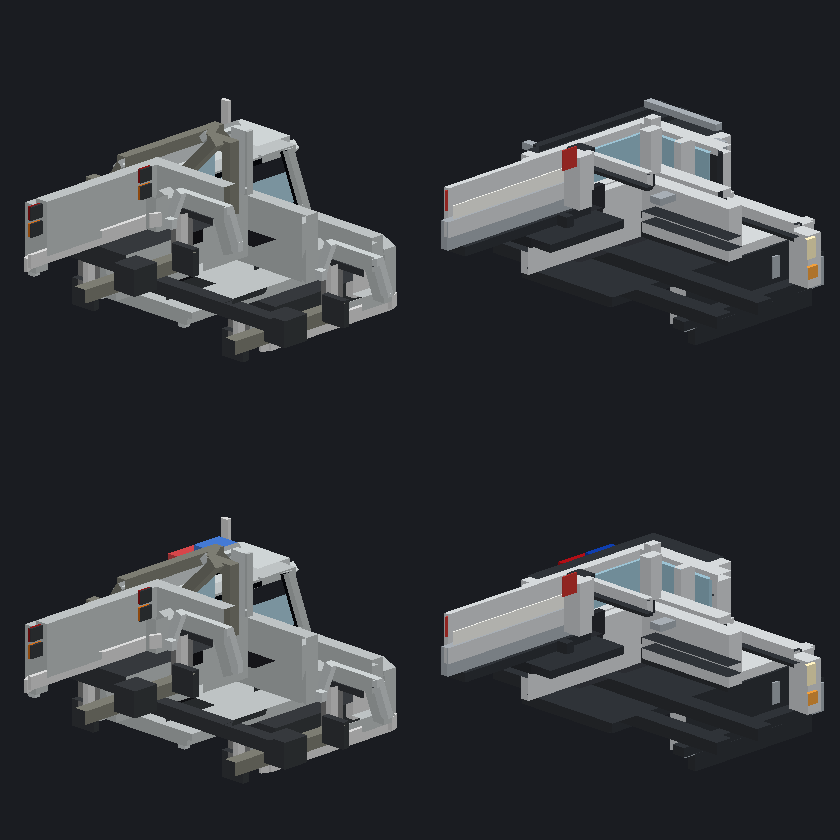
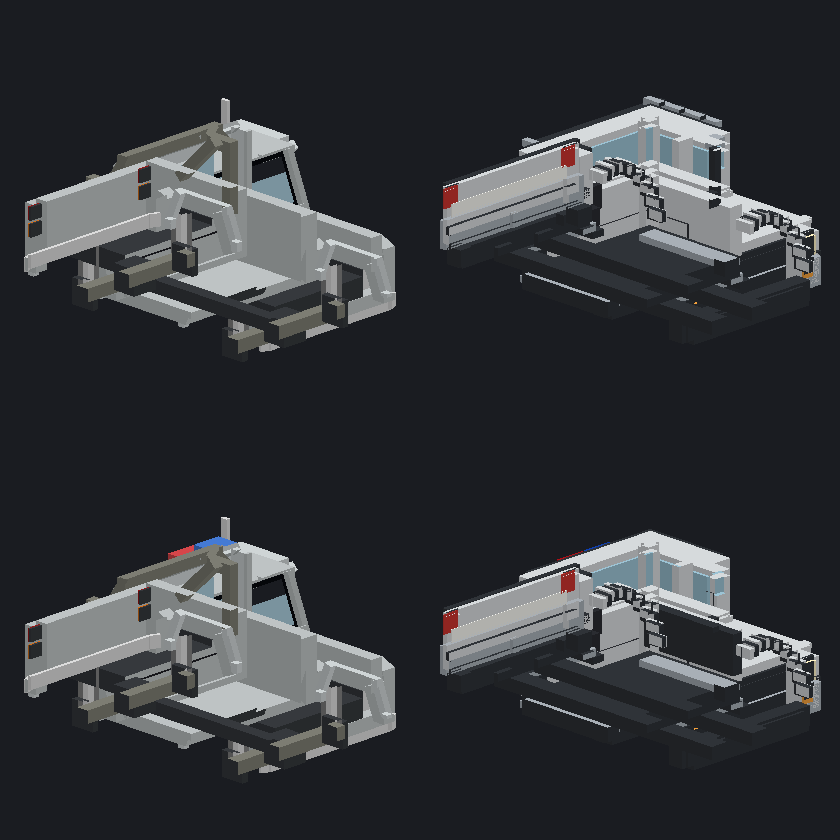
tools: randare cu z-buffer + pickup de la zero mai detaliat (tot dezactivat in pack)
- model_preview: rasterizare pe triunghiuri cu depth buffer in loc de sortarea
  fetelor (nu mai apar panouri "plutitoare" la suprafete care se suprapun)
- scratch_models: arc de aripa continuu (blocuri suprapuse), subcaroserie si
  lonjeroane, axe+arcuri, prag lateral, bare de protectie, numar spate,
  carlig de remorcare, banchete la y 8
- SCRATCH_BODIES rămâne gol: pack-ul e byte-identic cu r41 (SHA-1 d4126443...)

45 de teste OK.

diff --git a/tools/scratch_models.py b/tools/scratch_models.py
@@ -125,19 +125,23 @@ class Body:
         mirrored_high = (2 * centre - low[0], high[1], high[2])
         self.part(mirrored_low, mirrored_high, material, faces)
 
-    def arch(self, centre_x: float, centre_z: float, radius: float, width: float,
-             material: str, steps: int = 4) -> None:
-        """Stepped wheel arch (a cuboid approximation of a semicircle)."""
+    def arch(self, centre_x: float, centre_y: float, centre_z: float, radius: float,
+             width: float, material: str, span: float = 1.0, steps: int = 9) -> None:
+        """Wheel-arch lip: overlapping blocks along the top half of a circle.
+
+        ``span`` < 1 shortens the arc (a full 180 deg lip is a half ring); the
+        blocks overlap on purpose so the result reads as one continuous lip
+        instead of a dotted line of cubes.
+        """
+        import math
+
         for index in range(steps):
-            angle = (index + 0.5) / steps * 3.14159
-            import math
-            x_offset = math.cos(angle) * radius
-            y_offset = math.sin(angle) * radius
-            self.part((centre_x - width / 2, 4.6 + y_offset - radius * 0.28,
-                       centre_z + x_offset - radius / steps),
-                      (centre_x + width / 2, 4.6 + y_offset + radius * 0.16,
-                       centre_z + x_offset + radius / steps),
-                      material)
+            angle = math.pi * (index + 0.5) / steps * span
+            block = max(1.4, radius * 1.5 / steps)
+            z = centre_z + math.cos(angle) * radius
+            y = centre_y + math.sin(angle) * radius
+            self.part((centre_x - width / 2, y - block * 0.55, z - block),
+                      (centre_x + width / 2, y + block * 0.55, z + block), material)
 
     def model(self) -> dict:
         return {"textures": dict(self.textures), "elements": list(self.elements)}
@@ -152,127 +156,130 @@ def pickup_body(*, police: bool = False) -> dict:
     """From-scratch 4x4 pickup (Trailbreaker / Patrol).
 
     Front = +Z. Axles at z 22.5 / -6.5, wheels at x -2 / 18 (r = 5.6), so the
-    side panels are split into three runs to leave the wheel wells open:
-    bed -16..-13, doors -0.5..16.5, nose 28.5..32.
+    side panels run in three sections and the wheel wells stay open:
+    tub -16..-12.6, doors -0.9..16.9, nose 28.1..32.
     """
     body = Body()
-    left, right = -5.0, 18.5
-    for x0 in (left, right):
-        x1 = x0 + 2.5
-        for z0, z1 in ((-16.0, -13.0), (-0.5, 16.5), (28.5, 32.0)):
-            body.part((x0, 4.6, z0), (x1, 12.4, z1), "body")
-        # rocker panel between the wheels
-        body.part((x0 - 0.2, 4.0, -0.5), (x1, 6.2, 16.5), "body_dark")
-        # fender bulges over both axles (body colour, thin dark lip)
-        for z in (-6.5, 22.5):
-            body.part((x0 - 0.8, 11.8, z - 7.6), (x0 + 0.3, 14.0, z + 7.6), "body")
-            body.part((x0 - 0.8, 11.3, z - 7.6), (x0 + 0.3, 11.8, z + 7.6), "body_dark")
-            body.part((x0 - 0.9, 11.8, z - 7.9), (x0 + 0.4, 13.8, z - 6.9), "body_dark")
-            body.part((x0 - 0.9, 11.8, z + 6.9), (x0 + 0.4, 13.8, z + 7.9), "body_dark")
-        # door handle + rub strip
-        body.part((x0 - 0.3, 9.6, 1.4), (x1, 10.6, 3.4), "metal")
-        body.part((x0 - 0.2, 6.8, -0.5), (x1, 7.8, 16.5), "body_dark")
+    sides = (-5.0, 18.6)
 
-    # --- chassis / floor ---------------------------------------------------
-    for x0, x1 in ((2.6, 5.4), (10.6, 13.4)):
-        body.part((x0, 2.2, -14.0), (x1, 4.0, 30.0), "body_dark")
-    for z0, z1 in ((-15.4, -12.6), (-0.5, 16.5), (28.4, 30.6)):
-        body.part((-4.4, 3.8, z0), (20.4, 5.2, z1), "body_dark")
+    # --- underbody: gives the truck weight and hides the see-through gap ----
+    for z0, z1 in ((-15.2, -12.6), (-0.9, 16.9), (28.1, 30.8)):
+        body.part((-4.6, 2.0, z0), (20.6, 5.0, z1), "body_dark")
+    for x0 in (2.4, 10.4):
+        body.part((x0, 1.2, -13.4), (x0 + 3.0, 3.2, 29.6), "body_dark")   # frame rails
+    # axles + springs (visible in the wheel wells, like the source models)
+    for z in (-6.5, 22.5):
+        body.part((1.1, 4.4, z - 0.8), (14.9, 5.6, z + 0.8), "metal")     # axle tube
+        for x0 in (1.2, 12.4):
+            body.part((x0, 4.2, z - 2.6), (x0 + 2.2, 5.2, z + 2.6), "body_dark")
+
+    # --- body sides --------------------------------------------------------
+    for x0 in sides:
+        for z0, z1 in ((-16.0, -12.6), (-0.9, 16.9), (28.1, 32.0)):
+            body.part((x0, 5.0, z0), (x0 + 2.5, 12.6, z1), "body")
+        # wheel-arch flare: a lip on the outside of the body plane, so it sits
+        # clear of the wheel (which reaches x -4.8 on the left, 20.8 on the right)
+        outer = x0 - 0.35 if x0 < 8 else x0 + 2.85
+        for z in (-6.5, 22.5):
+            body.arch(outer, 5.6, z, radius=6.5, width=0.8, material="body", span=0.86)
+            body.arch(outer, 5.6, z, radius=6.2, width=1.0, material="body_dark", span=0.8)
+            body.part((x0 - 0.15, 2.2, z - 8.6), (x0 + 2.6, 4.6, z - 6.4), "body_dark")
+        # side step between the wheels
+        body.part((x0 - 0.5, 3.4, -0.4), (x0 + 2.5, 4.4, 16.4), "metal")
+        # door handle + rub strip, deliberately on different planes (no z-fight)
+        body.part((x0 - 0.42, 9.8, 1.6), (x0 - 0.06, 10.8, 3.8), "metal")
+        body.part((x0 - 0.3, 7.0, -0.6), (x0 - 0.06, 8.0, 16.6), "body_dark")
 
     # --- hood --------------------------------------------------------------
-    body.part((-4.6, 12.4, 14.0), (20.6, 13.8, 31.0), "body")
-    body.part((-2.4, 13.8, 16.4), (18.4, 14.8, 28.6), "body")       # power dome
-    body.part((-4.6, 13.4, 29.6), (20.6, 14.2, 31.2), "body")       # leading edge
-    body.part((-0.6, 13.9, 26.8), (16.6, 14.5, 29.4), "body_dark")  # vent
+    body.part((-4.6, 12.6, 14.0), (20.6, 14.0, 31.0), "body")
+    body.part((-2.4, 14.0, 16.4), (18.4, 15.0, 28.6), "body")        # power dome
+    body.part((-4.6, 13.6, 29.6), (20.6, 14.4, 31.2), "body")        # leading edge
+    body.part((-0.6, 14.1, 26.6), (16.6, 14.7, 29.2), "body_dark")   # vent
 
     # --- nose --------------------------------------------------------------
-    body.part((-4.8, 6.4, 30.9), (20.8, 12.4, 31.4), "body_dark")   # fascia
-    body.part((-2.0, 7.4, 31.3), (18.0, 11.4, 31.7), "grille")
-    for x in (-1.4, 3.0, 7.4, 11.8, 16.2):
-        body.part((x, 7.8, 31.7), (x + 1.2, 11.0, 31.9), "metal")   # grille bars
-    body.part((-4.6, 8.6, 30.9), (-3.0, 11.6, 31.5), "headlight")
-    body.part((19.0, 8.6, 30.9), (20.6, 11.6, 31.5), "headlight")
-    body.part((-4.9, 5.6, 31.0), (-3.2, 7.4, 31.5), "indicator")
-    body.part((19.2, 5.6, 31.0), (20.9, 7.4, 31.5), "indicator")
-    body.part((-5.6, 4.4, 31.0), (21.6, 8.6, 32.6), "metal")        # bumper
-    body.part((-5.6, 8.6, 31.9), (21.6, 9.4, 32.6), "body_dark")
-    body.part((-3.4, 1.8, 30.4), (19.4, 4.4, 31.8), "body_dark")    # skid plate
+    body.part((-4.8, 6.4, 30.9), (20.8, 12.6, 31.4), "body_dark")    # fascia
+    for x0 in (-4.9, -3.1):
+        body.part((x0, 8.6, 31.0), (x0 + 1.8, 11.8, 31.6), "headlight")
+        body.part((x0, 5.8, 31.0), (x0 + 1.8, 7.6, 31.5), "indicator")
+    for x0 in (19.1, 20.9):
+        body.part((x0 - 1.8, 8.6, 31.0), (x0, 11.8, 31.6), "headlight")
+    for x0 in (18.7, 20.5):
+        body.part((x0 - 1.8, 5.8, 31.0), (x0, 7.6, 31.5), "indicator")
+    body.part((-2.2, 7.6, 31.3), (18.2, 11.6, 31.7), "grille")
+    for x in (-1.6, 2.8, 7.2, 11.6, 16.0):
+        body.part((x, 8.0, 31.7), (x + 1.2, 11.2, 31.9), "metal")
+    body.part((-5.6, 4.4, 30.9), (21.6, 8.6, 32.0), "metal")         # bumper
+    body.part((-5.6, 8.6, 31.4), (21.6, 9.4, 32.0), "body_dark")
+    body.part((-3.4, 1.8, 30.4), (19.4, 4.4, 31.8), "body_dark")     # skid plate
     for x in (-3.4, 8.2):
-        body.part((x, 2.6, 32.2), (x + 1.4, 4.0, 33.0), "accent")   # tow hooks
+        body.part((x, 2.6, 31.9), (x + 1.4, 4.0, 32.0), "accent")    # tow hooks
+    body.part((0.4, 6.6, 32.0), (15.6, 7.8, 32.02), "plate")         # front plate
 
     # --- cab ---------------------------------------------------------------
-    # rear wall: frame + inset window (a solid wall would hide the glass)
-    body.part((-5.0, 4.6, -0.9), (21.0, 13.2, 0.5), "body")
-    body.part((-5.0, 13.2, -0.9), (21.0, 14.2, 0.5), "body")
-    body.part((-5.0, 19.6, -0.9), (21.0, 21.4, 0.5), "body")
-    body.symmetric((-5.0, 13.2, -0.9), (-3.2, 21.4, 0.5), "body")
-    body.part((-4.4, 14.2, -0.4), (20.4, 19.6, 0.0), "glass")
-    # roof
-    body.part((-5.0, 20.8, -0.9), (21.0, 22.2, 14.4), "body")
-    body.part((-4.4, 22.2, -0.3), (20.4, 22.8, 13.6), "body_dark")
-    # side frame: sill rail, header, pillars, then the glass pane inset 0.5
+    body.part((-5.0, 5.0, -0.9), (21.0, 13.4, 0.5), "body")          # rear wall
+    body.part((-5.0, 13.4, -0.9), (21.0, 14.4, 0.5), "body")
+    body.part((-5.0, 19.8, -0.9), (21.0, 21.4, 0.5), "body")
+    body.symmetric((-5.0, 13.4, -0.9), (-3.0, 21.4, 0.5), "body")
+    body.part((-4.4, 14.4, -0.4), (20.4, 19.8, 0.0), "glass")
+    body.part((-5.0, 21.0, -1.1), (21.0, 22.6, 14.6), "body")        # roof
+    body.part((-4.4, 22.6, -0.5), (20.4, 23.2, 13.8), "body_dark")   # roof rail
     for x0 in (-5.0, 18.4):
-        body.part((x0, 13.2, -0.9), (x0 + 2.6, 14.4, 14.4), "body")     # belt rail
-        body.part((x0, 19.8, -0.9), (x0 + 2.6, 20.8, 14.4), "body")     # header
-        body.part((x0, 14.4, 12.6), (x0 + 2.6, 19.8, 14.4), "body")     # A-pillar
-        body.part((x0, 14.4, 5.8), (x0 + 2.6, 19.8, 7.2), "body")       # B-pillar
-        body.part((x0, 14.4, -0.9), (x0 + 2.6, 19.8, 0.8), "body")      # C-pillar
-        body.part((x0 - 0.1, 14.4, 0.8), (x0 + 0.5, 19.8, 12.6), "glass")
-        body.part((x0 - 0.9, 15.2, 12.4), (x0 + 0.2, 17.6, 13.6), "body_dark")  # mirror
-        body.part((x0 - 1.4, 15.6, 12.6), (x0 - 0.8, 17.2, 13.4), "metal")
-    # windshield (two steps read as a rake) + cowl
-    body.part((-4.2, 13.6, 13.6), (20.2, 17.2, 14.5), "glass")
-    body.part((-4.2, 17.2, 13.2), (20.2, 20.4, 14.1), "glass")
-    body.part((-5.0, 13.2, 14.2), (21.0, 14.0, 15.0), "body")
+        body.part((x0, 13.4, -0.9), (x0 + 2.6, 14.6, 14.6), "body")  # belt rail
+        body.part((x0, 20.0, -0.9), (x0 + 2.6, 21.0, 14.6), "body")  # header
+        body.part((x0, 14.6, 12.8), (x0 + 2.6, 20.0, 14.6), "body")  # A-pillar
+        body.part((x0, 14.6, 5.8), (x0 + 2.6, 20.0, 7.2), "body")    # B-pillar
+        body.part((x0, 14.6, -0.9), (x0 + 2.6, 20.0, 0.8), "body")   # C-pillar
+        body.part((x0 - 0.1, 14.6, 0.8), (x0 + 0.4, 20.0, 12.8), "glass")
+        body.part((x0 - 0.7, 15.4, 12.6), (x0 + 0.2, 17.8, 13.8), "body_dark")  # mirror
+        body.part((x0 - 1.2, 15.8, 12.8), (x0 - 0.6, 17.4, 13.6), "metal")
+    body.part((-4.2, 13.8, 13.8), (20.2, 17.6, 14.7), "glass")       # windshield
+    body.part((-4.2, 17.6, 13.4), (20.2, 20.6, 14.3), "glass")
+    body.part((-5.0, 13.4, 14.4), (21.0, 14.2, 15.2), "body")        # cowl
 
-    # --- bed / rear tub -----------------------------------------------------
-    # The rear wheels (r 5.6, centre z -6.5) leave x 0.8..15.2 clear, so the
-    # floor and the bench pass between them; the tub sits behind the axle and
-    # the open middle keeps the wheels visible, technical-pickup style.
-    body.part((-4.6, 6.0, -15.6), (20.6, 7.2, -12.6), "body_dark")   # tub floor
-    body.part((0.8, 6.0, -12.6), (15.2, 7.2, -0.9), "body_dark")     # between wheels
-    for x0 in (-5.0, 18.6):
-        body.part((x0, 7.2, -15.4), (x0 + 2.4, 12.8, -12.6), "body")  # tub sides
-        body.part((x0 - 0.1, 12.8, -15.4), (x0 + 2.5, 13.4, -12.6), "body_dark")
-    body.part((-5.0, 6.0, -16.0), (21.0, 13.4, -15.2), "body")        # tailgate
-    body.part((-3.4, 8.2, -16.02), (19.4, 10.2, -15.9), "plate")
-    body.part((-4.9, 9.8, -16.02), (-2.2, 12.8, -15.9), "taillight")
-    body.part((18.2, 9.8, -16.02), (20.9, 12.8, -15.9), "taillight")
-    body.part((-5.6, 4.4, -16.0), (21.6, 8.6, -14.8), "metal")        # rear bumper
-    body.part((16.4, 2.4, -15.2), (17.8, 4.0, -13.4), "body_dark")    # exhaust
+    # --- tub behind the axle ------------------------------------------------
+    body.part((-4.6, 6.2, -15.8), (20.6, 7.4, -12.6), "body_dark")   # floor
+    for x0 in (sides[0], sides[1] - 0.2):
+        body.part((x0, 7.4, -15.6), (x0 + 2.4, 12.8, -12.6), "body")
+        body.part((x0 - 0.1, 12.8, -15.6), (x0 + 2.5, 13.4, -12.6), "body_dark")
+    body.part((-5.0, 6.2, -16.0), (21.0, 13.4, -15.2), "body")       # tailgate
+    body.part((-5.0, 13.4, -16.1), (21.0, 14.0, -15.0), "body_dark")
+    body.part((-3.4, 8.4, -16.02), (19.4, 10.4, -15.9), "plate")
+    body.part((-4.9, 10.0, -16.02), (-2.2, 13.0, -15.9), "taillight")
+    body.part((18.2, 10.0, -16.02), (20.9, 13.0, -15.9), "taillight")
+    body.part((-5.6, 4.4, -16.0), (21.6, 8.6, -14.8), "metal")       # rear bumper
+    body.part((7.6, 4.4, -15.4), (8.8, 6.4, -14.6), "metal")         # tow hitch
+    body.part((16.4, 2.6, -15.2), (17.8, 4.2, -13.6), "body_dark")   # exhaust
 
     # --- interior ----------------------------------------------------------
-    # bench tops sit at y = 8: that is where LandVehicleSpec.seat() puts the
-    # rider (sourceOffset y = 4 - 1 + 5.6 = 8.6 units, minus the 0.6 cushion)
-    body.part((-3.0, 5.6, 0.2), (19.0, 8.0, 8.6), "seat")            # front bench
-    body.part((-3.0, 8.0, 0.6), (19.0, 13.0, 1.8), "seat")           # backrest
-    body.part((-3.0, 8.0, 1.8), (19.0, 10.4, 2.4), "seat")           # headrests
-    body.part((1.0, 5.6, -11.0), (15.0, 8.0, -5.0), "seat")          # rear bench
+    body.part((-3.0, 5.4, 0.2), (19.0, 8.0, 8.6), "seat")            # front bench
+    body.part((-3.0, 8.0, 0.8), (19.0, 12.8, 2.0), "seat")           # backrest
+    body.part((1.0, 5.4, -11.0), (15.0, 8.0, -5.0), "seat")          # rear bench
     body.part((1.0, 8.0, -5.6), (15.0, 11.6, -4.6), "seat")
-    body.part((-4.6, 11.2, 11.4), (20.6, 13.0, 12.8), "body_dark")   # dashboard
-    body.part((2.0, 9.6, 10.2), (4.2, 11.4, 12.4), "body_dark")      # steering column
+    body.part((-4.6, 11.4, 11.4), (20.6, 13.4, 12.8), "body_dark")   # dashboard
+    body.part((1.8, 10.0, 10.2), (4.2, 11.6, 12.4), "body_dark")     # steering column
 
     # --- kit ---------------------------------------------------------------
     if police:
-        body.part((-3.6, 22.8, 4.2), (7.6, 24.2, 9.8), "body_dark")
-        body.part((-3.2, 24.2, 4.6), (1.8, 25.8, 9.4), "siren_red")
-        body.part((2.2, 24.2, 4.6), (7.2, 25.8, 9.4), "siren_blue")
-        body.part((-5.0, 5.4, 32.6), (21.0, 6.6, 33.4), "metal")     # push bar
-        for x0 in (-4.0, 19.0):
-            body.part((x0, 5.4, 32.8), (x0 + 1.4, 13.0, 33.6), "metal")
-        body.part((2.0, 13.9, 27.0), (14.0, 14.6, 29.6), "siren_blue")
+        body.part((-3.6, 23.2, 4.2), (7.6, 24.4, 9.8), "body_dark")
+        body.part((-3.2, 24.4, 4.6), (1.8, 26.0, 9.4), "siren_red")
+        body.part((2.2, 24.4, 4.6), (7.2, 26.0, 9.4), "siren_blue")
+        body.part((-5.6, 5.2, 32.0), (21.6, 6.4, 32.8), "metal")     # push bar
+        for x0 in (-4.2, 19.4):
+            body.part((x0, 5.2, 32.2), (x0 + 1.4, 13.4, 32.8), "metal")
+        body.part((2.0, 14.1, 26.8), (14.0, 14.8, 29.4), "siren_blue")
+        body.part((-4.9, 6.0, -0.8), (-3.2, 12.2, 16.8), "body_dark")   # door panel
+        body.part((19.4, 6.0, -0.8), (21.1, 12.2, 16.8), "body_dark")
     else:
         for x0 in (-4.6, 19.4):
-            body.part((x0, 22.8, -1.0), (x0 + 1.2, 23.8, 13.0), "metal")
+            body.part((x0, 23.2, -0.9), (x0 + 1.2, 24.2, 13.4), "metal")
         for z in (1.0, 5.0, 9.0):
-            body.part((-4.6, 23.2, z), (20.6, 24.0, z + 1.2), "body_dark")
-        body.part((19.2, 11.4, 12.2), (20.4, 19.6, 13.4), "body_dark")   # snorkel
-        body.part((18.8, 19.6, 11.8), (20.8, 21.2, 13.8), "metal")
+            body.part((-4.6, 23.6, z), (20.6, 24.4, z + 1.2), "body_dark")
+        body.part((19.2, 12.0, 12.2), (20.4, 20.2, 13.4), "body_dark")  # snorkel
+        body.part((18.8, 20.2, 11.8), (20.8, 21.8, 13.8), "metal")
 
     return body.model()
 
 
-# Every body the generator can produce (guarded by tools/test_scratch_models.py).
 CANDIDATE_BODIES = {
     "off_roader_body": lambda: pickup_body(),
     "police_car_body": lambda: pickup_body(police=True),

diff --git a/tools/model_preview.py b/tools/model_preview.py
@@ -193,7 +193,8 @@ def render(model: dict, *, pack: zipfile.ZipFile | None = None, size: int = 720,
         screen_y = size / 2.0 - (y * math.cos(pitch) - rz * math.sin(pitch)) * scale
         return (screen_x, screen_y, rz)
 
-    view = []
+    pixels = bytearray(b"\x1a\x1c\x21\xff" * (size * size))
+    depth_buffer = [float("inf")] * (size * size)
     for points, normal, face in quads:
         projected = [project(point) for point in points]
         # Backface culling using the screen-space winding.
@@ -204,21 +205,50 @@ def render(model: dict, *, pack: zipfile.ZipFile | None = None, size: int = 720,
             area += x1 * y2 - x2 * y1
         if area >= 0:  # wound away from the camera
             continue
-        depth = sum(p[2] for p in projected) / len(projected)
         name = next((name for name, (_, n) in FACE_CORNERS.items() if n == normal), "up")
         base = colour_for(face)
         brightness = FACE_BRIGHTNESS.get(name, 0.8)
-        tint = face.get("tintindex")
-        if tint is not None:
+        if face.get("tintindex") is not None:
             brightness *= 0.92
         colour = tuple(min(255, int(channel * brightness)) for channel in base)
-        view.append((depth, projected, colour))
-
-    view.sort(key=lambda item: -item[0])
-    pixels = bytearray(b"\x1a\x1c\x21\xff" * (size * size))
-    for _depth, points, colour in view:
-        fill_polygon(pixels, size, points, colour)
+        # A z-buffer per pixel (instead of painter sorting) keeps overlapping
+        # cuboids honest: no more "floating panel" artefacts while modelling.
+        for triangle in ((0, 1, 2), (0, 2, 3)):
+            fill_triangle(pixels, depth_buffer, size,
+                          [projected[i] for i in triangle], colour)
     return size, size, bytes(pixels)
+
+
+def fill_triangle(pixels: bytearray, depth_buffer: list, size: int, triangle, colour) -> None:
+    (x0, y0, z0), (x1, y1, z1), (x2, y2, z2) = triangle
+    area = (x1 - x0) * (y2 - y0) - (x2 - x0) * (y1 - y0)
+    if abs(area) < 1e-9:
+        return
+    left = max(0, int(math.floor(min(x0, x1, x2))))
+    right = min(size - 1, int(math.ceil(max(x0, x1, x2))))
+    top = max(0, int(math.floor(min(y0, y1, y2))))
+    bottom = min(size - 1, int(math.ceil(max(y0, y1, y2))))
+    red, green, blue = colour
+    for y in range(top, bottom + 1):
+        py = y + 0.5
+        row = y * size
+        for x in range(left, right + 1):
+            px = x + 0.5
+            w0 = ((x1 - px) * (y2 - py) - (x2 - px) * (y1 - py)) / area
+            w1 = ((x2 - px) * (y0 - py) - (x0 - px) * (y2 - py)) / area
+            w2 = 1.0 - w0 - w1
+            if w0 < 0 or w1 < 0 or w2 < 0:
+                continue
+            depth = w0 * z0 + w1 * z1 + w2 * z2
+            index = row + x
+            if depth >= depth_buffer[index]:
+                continue
+            depth_buffer[index] = depth
+            offset = index * 4
+            pixels[offset] = red
+            pixels[offset + 1] = green
+            pixels[offset + 2] = blue
+            pixels[offset + 3] = 255
 
 
 def fill_polygon(pixels: bytearray, size: int, points, colour) -> None:
